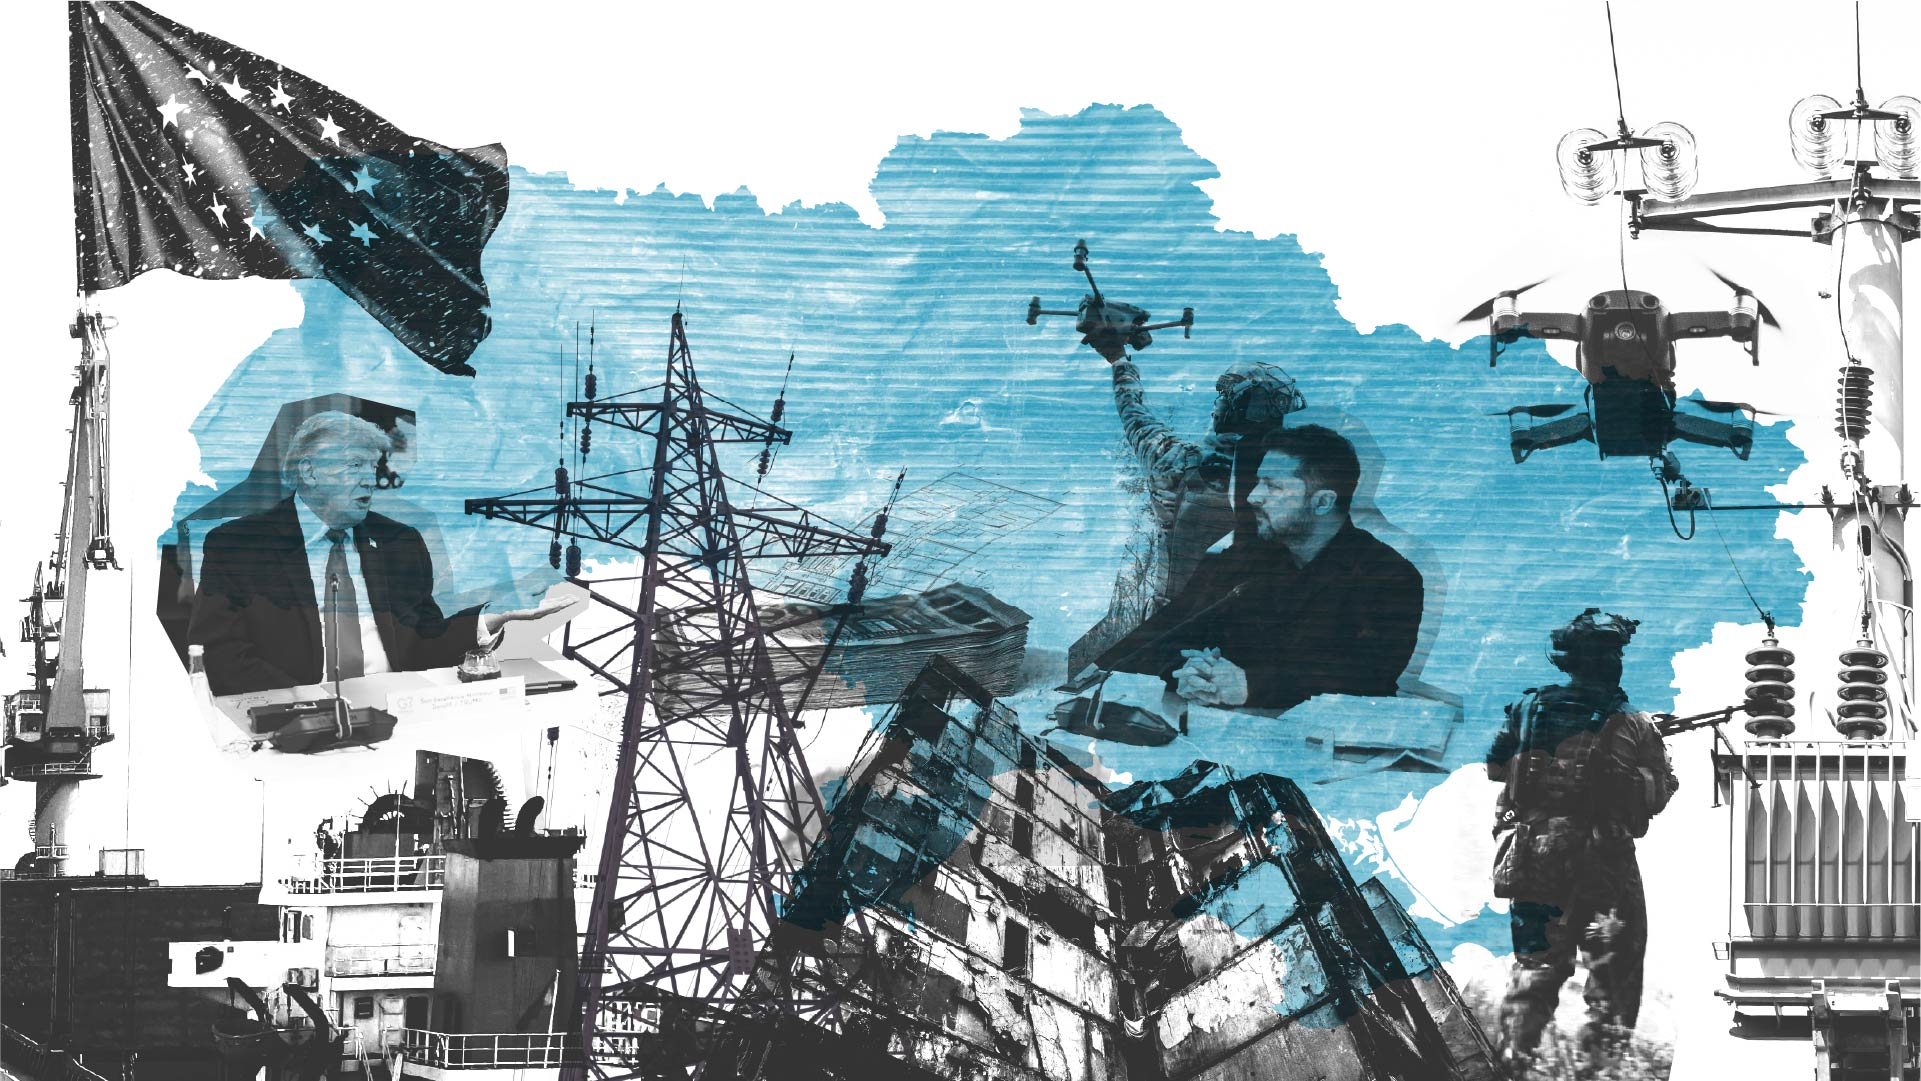
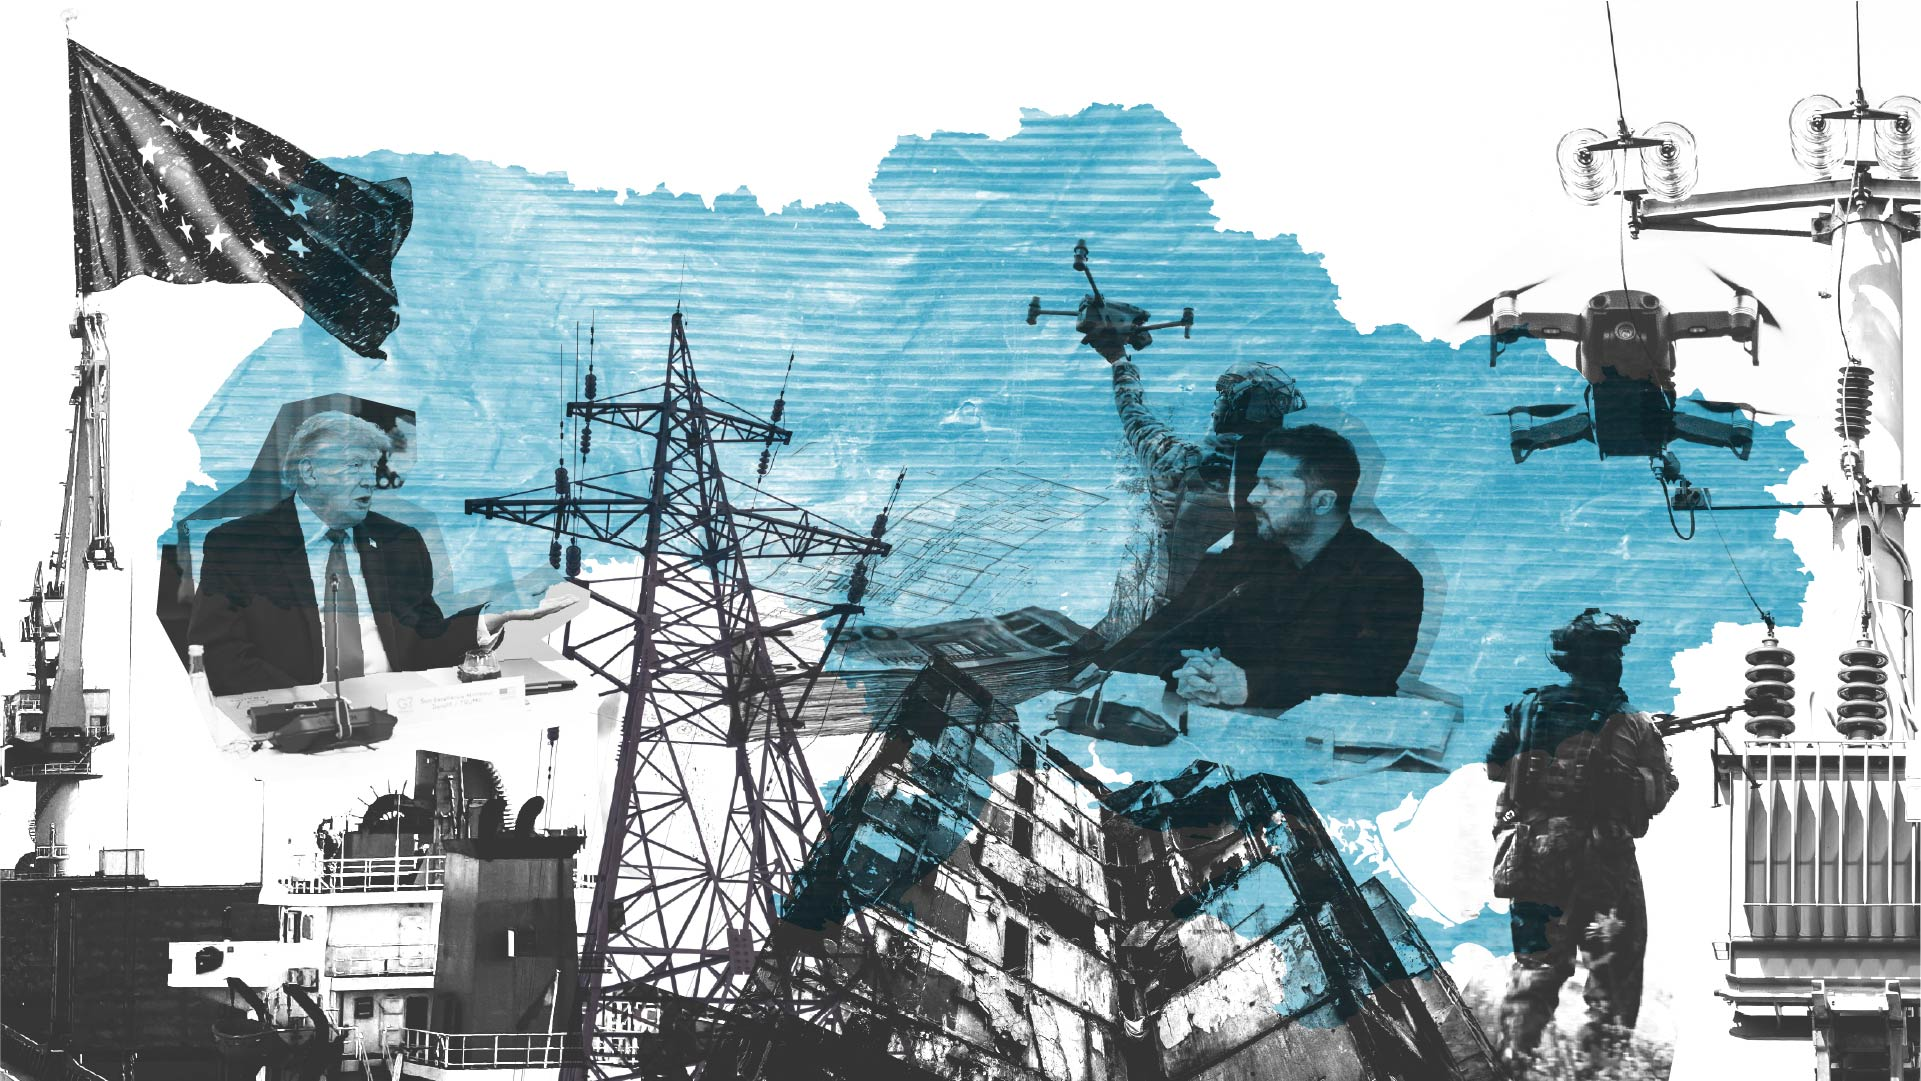
tiles titles-link

Changed region(s): [[0.3123, 0.4274, 0.5934, 0.8242], [0.0312, 0.0, 0.2811, 0.3663]]

diff --git a/tiles.html b/tiles.html
@@ -324,7 +324,7 @@
         <a href="#" target="_blank">
             <div class="chapter-card-img-wrap">
                 <img class="chapter-card-img"
-                    src="https://euissr.github.io/analysis_2026_06-OD-Empowering-Ukraine/src/ODboard.jpg" alt="">
+                    src="https://euissr.github.io/analysis_2026_06-OD-Empowering-Ukraine/src/ODGS.jpg" alt="">
                 <h4 class="chapter-card-title">Marshall Plan 2.0 </h4>
             </div>
         </a>
@@ -344,7 +344,7 @@
             <div class="chapter-card-img-wrap">
                 <!-- <img class="chapter-card-img" src="/sites/default/files/2026-03/template_energy.png" -->
                 <img class="chapter-card-img"
-                    src="https://euissr.github.io/analysis_2026_06-OD-Empowering-Ukraine/src/ODequity.jpg" alt="">
+                    src="https://euissr.github.io/analysis_2026_06-OD-Empowering-Ukraine/src/ODboard.jpg" alt="">
                 <h4 class="chapter-card-title">Bringing the Big on Board</h4>
             </div>
         </a>